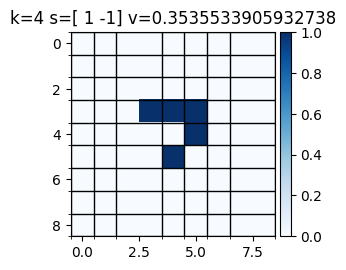
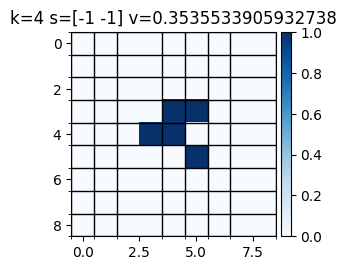
Update

diff --git a/Exercise 4/4_7.py b/Exercise 4/4_7.py
@@ -11,9 +11,9 @@ rule1 = [[2], [3, 4, 5]]
 rule2 = [[5, 6, 7], [2, 3]]
 
 
-# Always dies out (might be trivial since it always requires the same)
+# Always dies out
 rule3 = [[4, 5, 6, 7, 8], [4, 5]]
-game = Game(rule=rule3, periodic=False)
+game = Game(rule=rule1, periodic=True)
 game.populate()  # Random
 i = 0
 while not game.still_life() and not game.oscillating():
@@ -22,3 +22,5 @@ while not game.still_life() and not game.oscillating():
     i += 1
 
 game.show(title="t = " + str(i))
+game.next_generation()
+game.show(title="t = " + str(i+1))

diff --git a/Exercise 4/4_6.py b/Exercise 4/4_6.py
@@ -17,6 +17,7 @@ found_oscillations = []
 periods = []
 shifts = []
 velocities = []
+still = 0
 
 for i in range(searches):
     config = np.random.randint(0, 2, size=(N, N))
@@ -54,6 +55,8 @@ for i in range(searches):
                     shifts.append(shift)
                     
             break
+        if game.still_life():
+            still += 1
 #%%
 for i in range(len(found_oscillations)):
     game.wipe_world()
